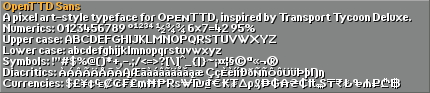
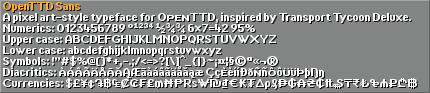
Fix: Tweak OpenTTD Sans Austral symbol

Changed region(s): [[0.2116, 0.8387, 0.9977, 0.9677]]

diff --git a/readme.md b/readme.md
@@ -28,8 +28,6 @@ Designed for use at 18 pixel height.
 
 Full coverage of: `Basic Latin`, `Latin-1 Supplement`, `Latin Extended-A` and `Currency Symbols`.
 
-_TODO_
-
 ### OpenTTD Small
 Specialised very small size typeface for use in small text.
 Designed for use at 6 pixel height.
